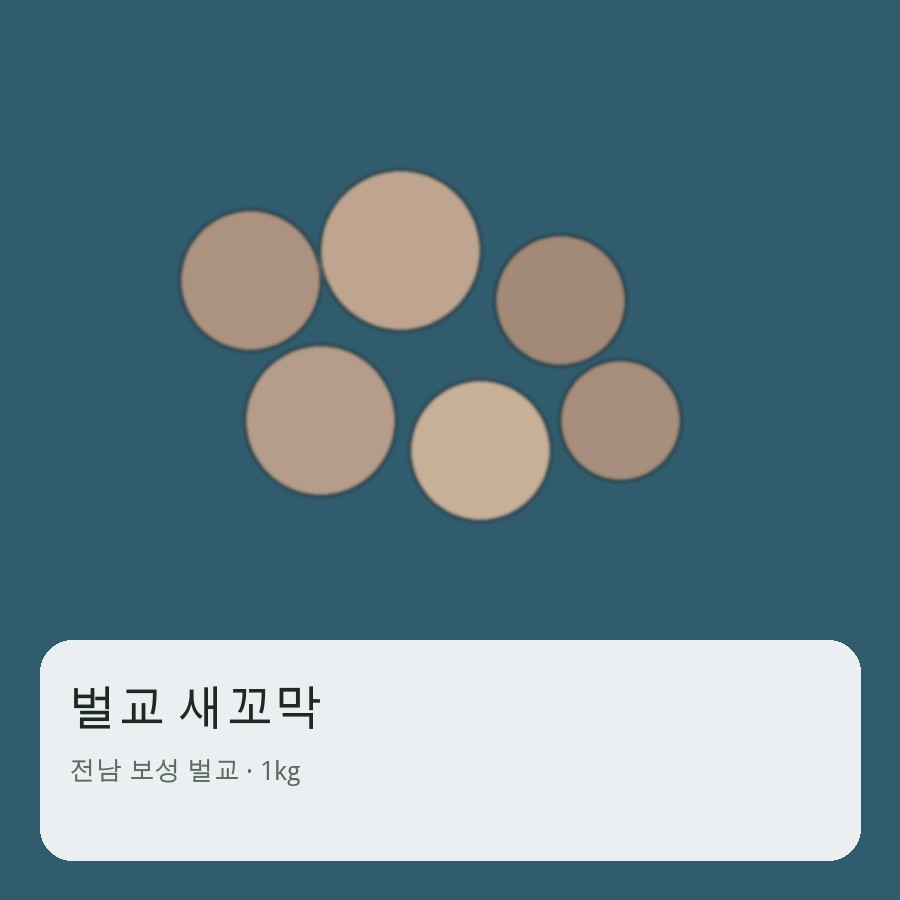
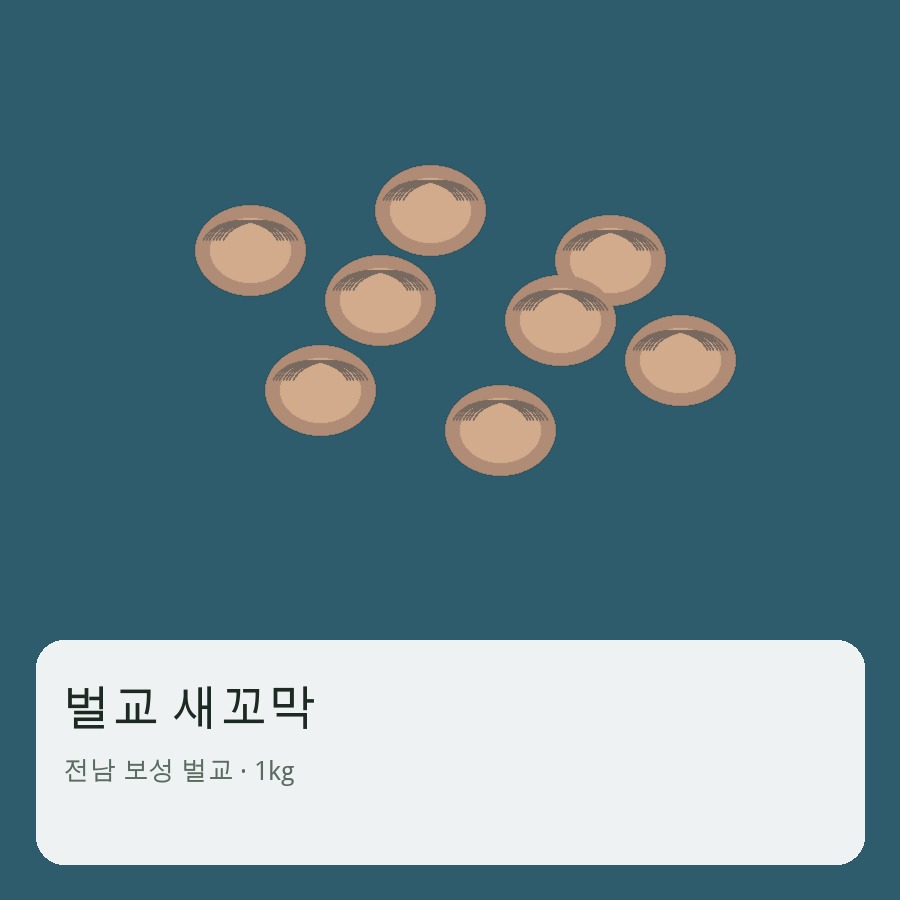
fix: 스탬프 적립을 최신 장바구니 기준으로 고정하고 해산물 이미지 교체
주문 완료 시 ref로 최신 cart/stamps를 읽어 적립하고, 통영 생굴·꼬막 상품 이미지를 명확한 일러스트로 교체한다.

Changed region(s): [[0.1867, 0.1556, 0.84, 0.5911], [0.0311, 0.7156, 0.9644, 0.9644]]

diff --git a/src/context/StoreContext.tsx b/src/context/StoreContext.tsx
@@ -4,6 +4,7 @@ import {
   useContext,
   useEffect,
   useMemo,
+  useRef,
   useState,
   type ReactNode,
 } from 'react'
@@ -69,6 +70,10 @@ export function StoreProvider({ children }: { children: ReactNode }) {
   const [stamps, setStamps] = useState<Record<RegionId, boolean>>(() =>
     readStamps(),
   )
+  const cartRef = useRef(cart)
+  const stampsRef = useRef(stamps)
+  cartRef.current = cart
+  stampsRef.current = stamps
 
   useEffect(() => {
     localStorage.setItem(CART_KEY, JSON.stringify(cart))
@@ -113,9 +118,9 @@ export function StoreProvider({ children }: { children: ReactNode }) {
   const completeOrder = useCallback(() => {
     const earned: RegionId[] = []
     const alreadyHad: RegionId[] = []
-    const next = { ...stamps }
+    const next = { ...stampsRef.current }
 
-    for (const item of cart) {
+    for (const item of cartRef.current) {
       const product = getProduct(item.productId)
       if (!product) continue
       if (next[product.regionId]) {
@@ -133,7 +138,7 @@ export function StoreProvider({ children }: { children: ReactNode }) {
     setStamps(next)
     setCart([])
     return { earned, alreadyHad }
-  }, [cart, stamps])
+  }, [])
 
   const cartCount = useMemo(
     () => cart.reduce((sum, item) => sum + item.quantity, 0),
